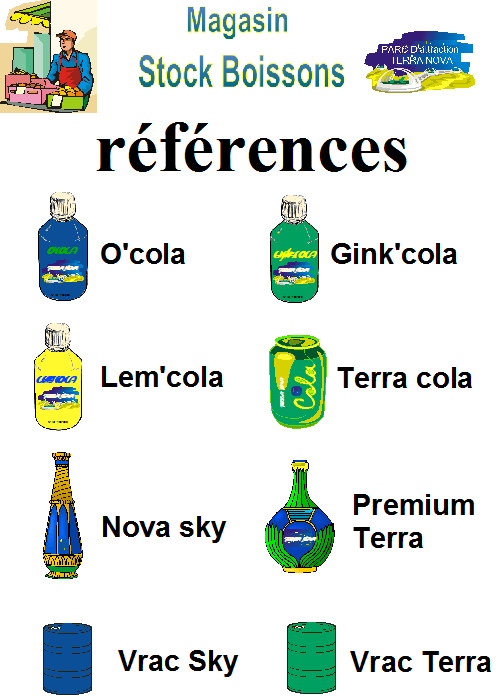
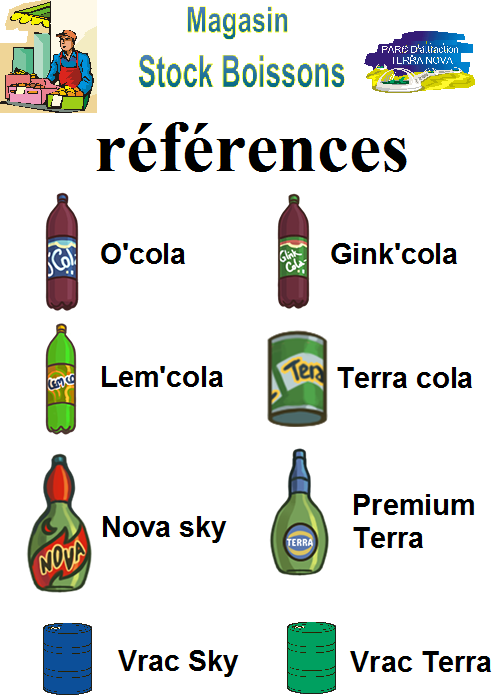
met à jour la fiche de référence
fix linter

remet les icones des produits pour la saisie de l'inventaire

rajoute les images

Changed region(s): [[0.51, 0.2712, 0.69, 0.8436], [0.03, 0.2712, 0.21, 0.8737]]

diff --git a/src/situations/inventaire/data/stock.js b/src/situations/inventaire/data/stock.js
@@ -43,14 +43,14 @@ const contenants = [
 ];
 
 const contenus = {
-  '0': { nom: 'Vrac SKY' },
-  '1': { nom: 'Vrac TERRA' },
-  '2': { nom: 'Premium Terra' },
-  '3': { nom: 'Nova Sky' },
-  '4': { nom: "Gink'cola" },
-  '5': { nom: "Lem'cola" },
-  '6': { nom: 'Terra Cola' },
-  '7': { nom: "O'cola" }
+  '0': { nom: 'Vrac SKY', image: require('inventaire/assets/bidon_bleu.png') },
+  '1': { nom: 'Vrac TERRA', image: require('inventaire/assets/bidon_vert.png') },
+  '2': { nom: 'Premium Terra', image: require('inventaire/assets/premterra.png') },
+  '3': { nom: 'Nova Sky', image: require('inventaire/assets/novasky.png') },
+  '4': { nom: "Gink'cola", image: require('inventaire/assets/ginkcola.png') },
+  '5': { nom: "Lem'cola", image: require('inventaire/assets/lemcola.png') },
+  '6': { nom: 'Terra Cola', image: require('inventaire/assets/terracola.png') },
+  '7': { nom: "O'cola", image: require('inventaire/assets/ocola.png') }
 };
 
 const formes = {

diff --git a/tests/situations/inventaire/vues/contenu.js b/tests/situations/inventaire/vues/contenu.js
@@ -66,5 +66,4 @@ describe('vue contenu', function () {
       expect(vue.element.style.height).to.eql('16%');
     });
   });
-
 });
